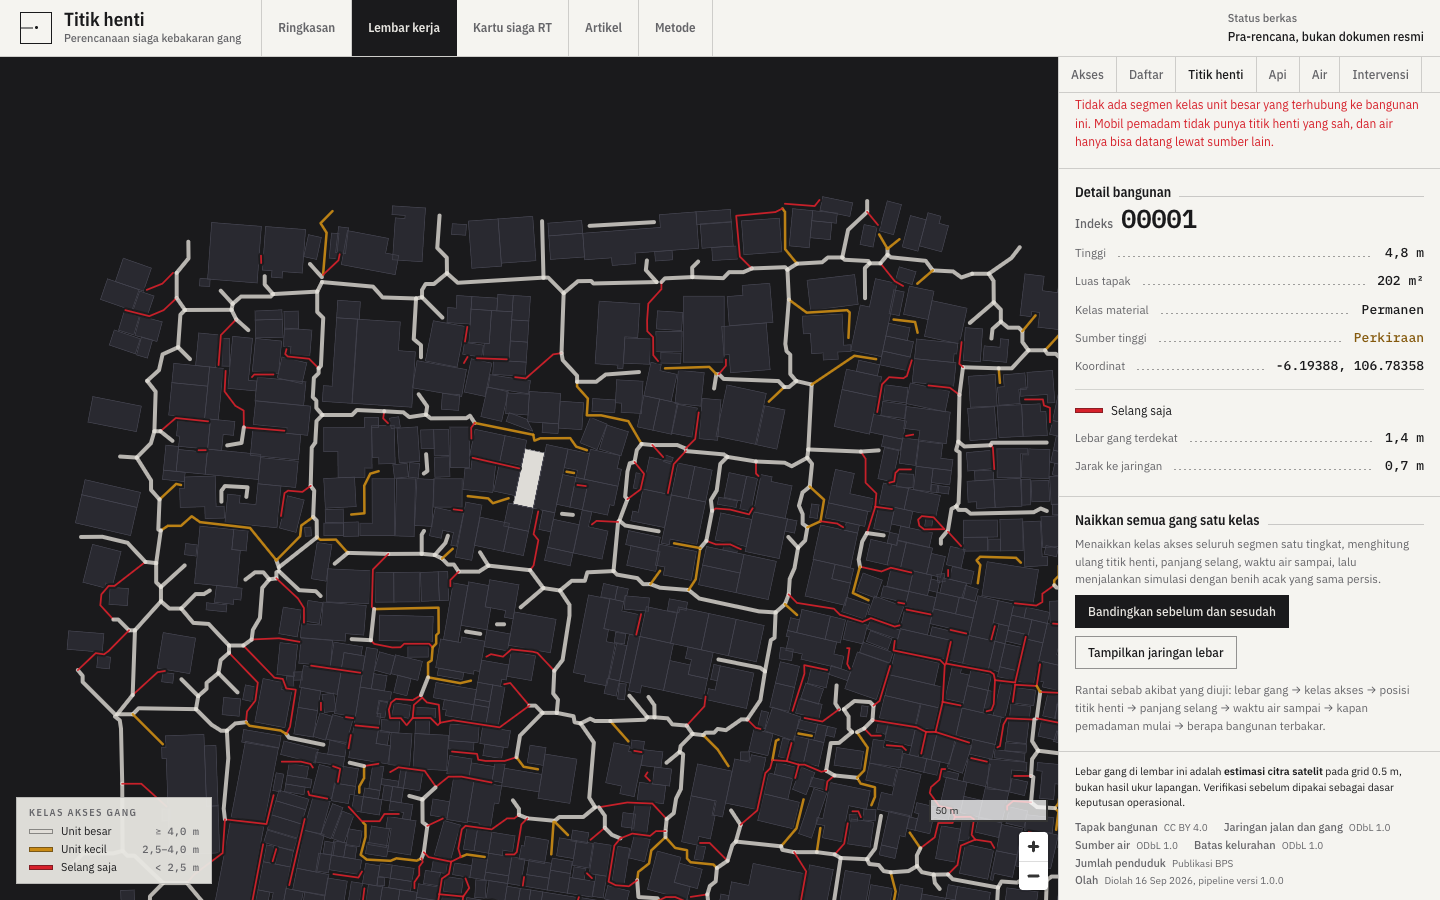
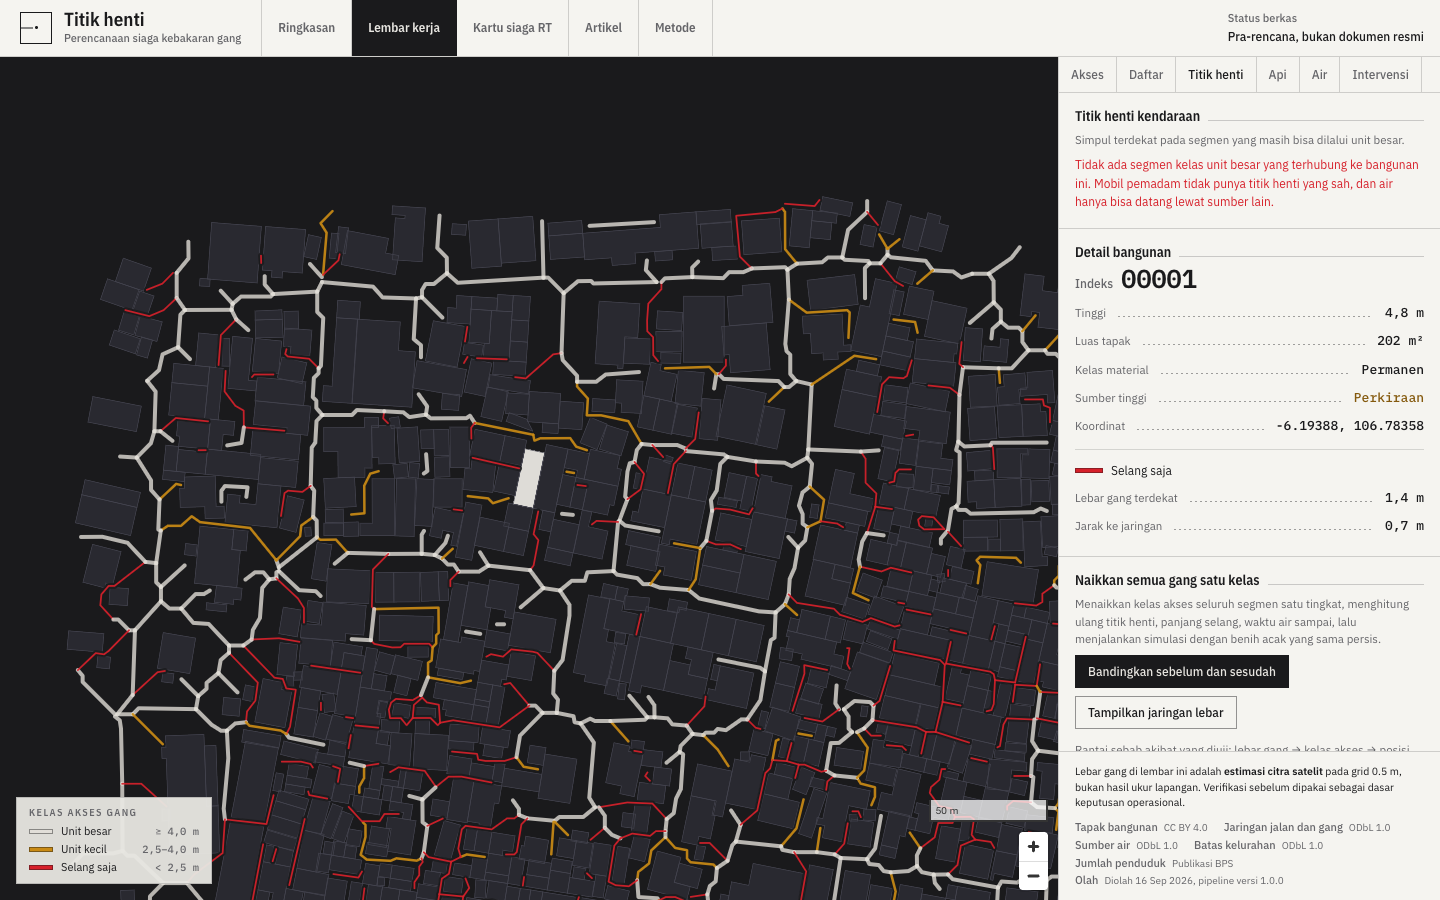
📝 catat hasil titik henti di layar pertama ponsel beserta buktinya

Changed region(s): [[0.75, 0.0933, 0.9688, 0.84], [0.875, 0.3422, 1.0, 0.4978]]

diff --git a/AI-USAGE.md b/AI-USAGE.md
@@ -653,6 +653,19 @@ Hasilnya jujur kecil: sekitar satu detik. Berkas yang diunduh di tampilan awal m
 
 Verifikasi: uji peta, koreksi lapangan, dan alur juri membuktikan klik gang, klik bangunan, dan warna kelas gang tetap bekerja tanpa atribut yang dicabut. Seluruh suite end to end lolos, 124 uji.
 
+### Tahap 25, hasil titik henti di layar pertama ponsel
+
+Temuan tahap 22 menyebut panel detail di ponsel tertutup di bawah layar setelah bangunan dipilih. Pengukuran di iPhone 13 menunjukkan masalahnya lebih sempit dari itu. Panjang selang sudah tampil di atas peta lewat penggaris selang. Yang tertutup adalah isi tab Titik henti sendiri: tab itu membuka dengan detail bangunan, sehingga judul hasilnya ada di piksel 864 dan tambahan waktu sebelum air sampai sekitar dua layar ke bawah, padahal tinggi layar 664.
+
+Dua perubahan:
+
+1. **Hasil lebih dulu.** Di tab Titik henti, panel titik henti kendaraan kini di atas detail bangunan. Judulnya turun ke piksel 536, bilah panjang selang masuk layar pertama, dan tambahan waktu ada tepat di bawah batas layar. Gulir otomatis sengaja tidak dipakai, karena akan menarik layar menjauh dari penggaris selang yang sedang menggambar dirinya di peta.
+2. **Panel dibuka dari atas.** Di laptop, panel kerja punya gulir sendiri dan posisinya terbawa saat berganti tab, sehingga membuka Titik henti setelah menggulir Daftar memotong judul hasil. Posisi gulir panel kini kembali ke atas setiap kali tab berganti.
+
+Satu kesalahan saat menulis uji: uji gulir panel pertama kali lolos pada kode yang belum diperbaiki, karena tanpa bangunan terpilih isi tab terlalu pendek untuk digulir. Uji diperbaiki dengan memilih bangunan lebih dulu, lalu dibuktikan gagal pada kode lama. Uji urutan panel juga dibuktikan gagal pada urutan lama.
+
+Verifikasi: tangkapan layar 380, 768, dan 1440 di `bukti/titik-henti-hp/`, konsol bersih, tanpa gulir mendatar. Seluruh suite end to end lolos, 126 uji.
+
 ## Yang tidak dikerjakan AI
 
 Penentuan masalah, pemilihan wilayah uji, penyusunan PRD, arah desain, pengukuran lapangan dengan meteran, dan keputusan lingkup fitur adalah pekerjaan manusia. AI tidak menentukan apa yang dibangun, hanya membantu membangunnya.
